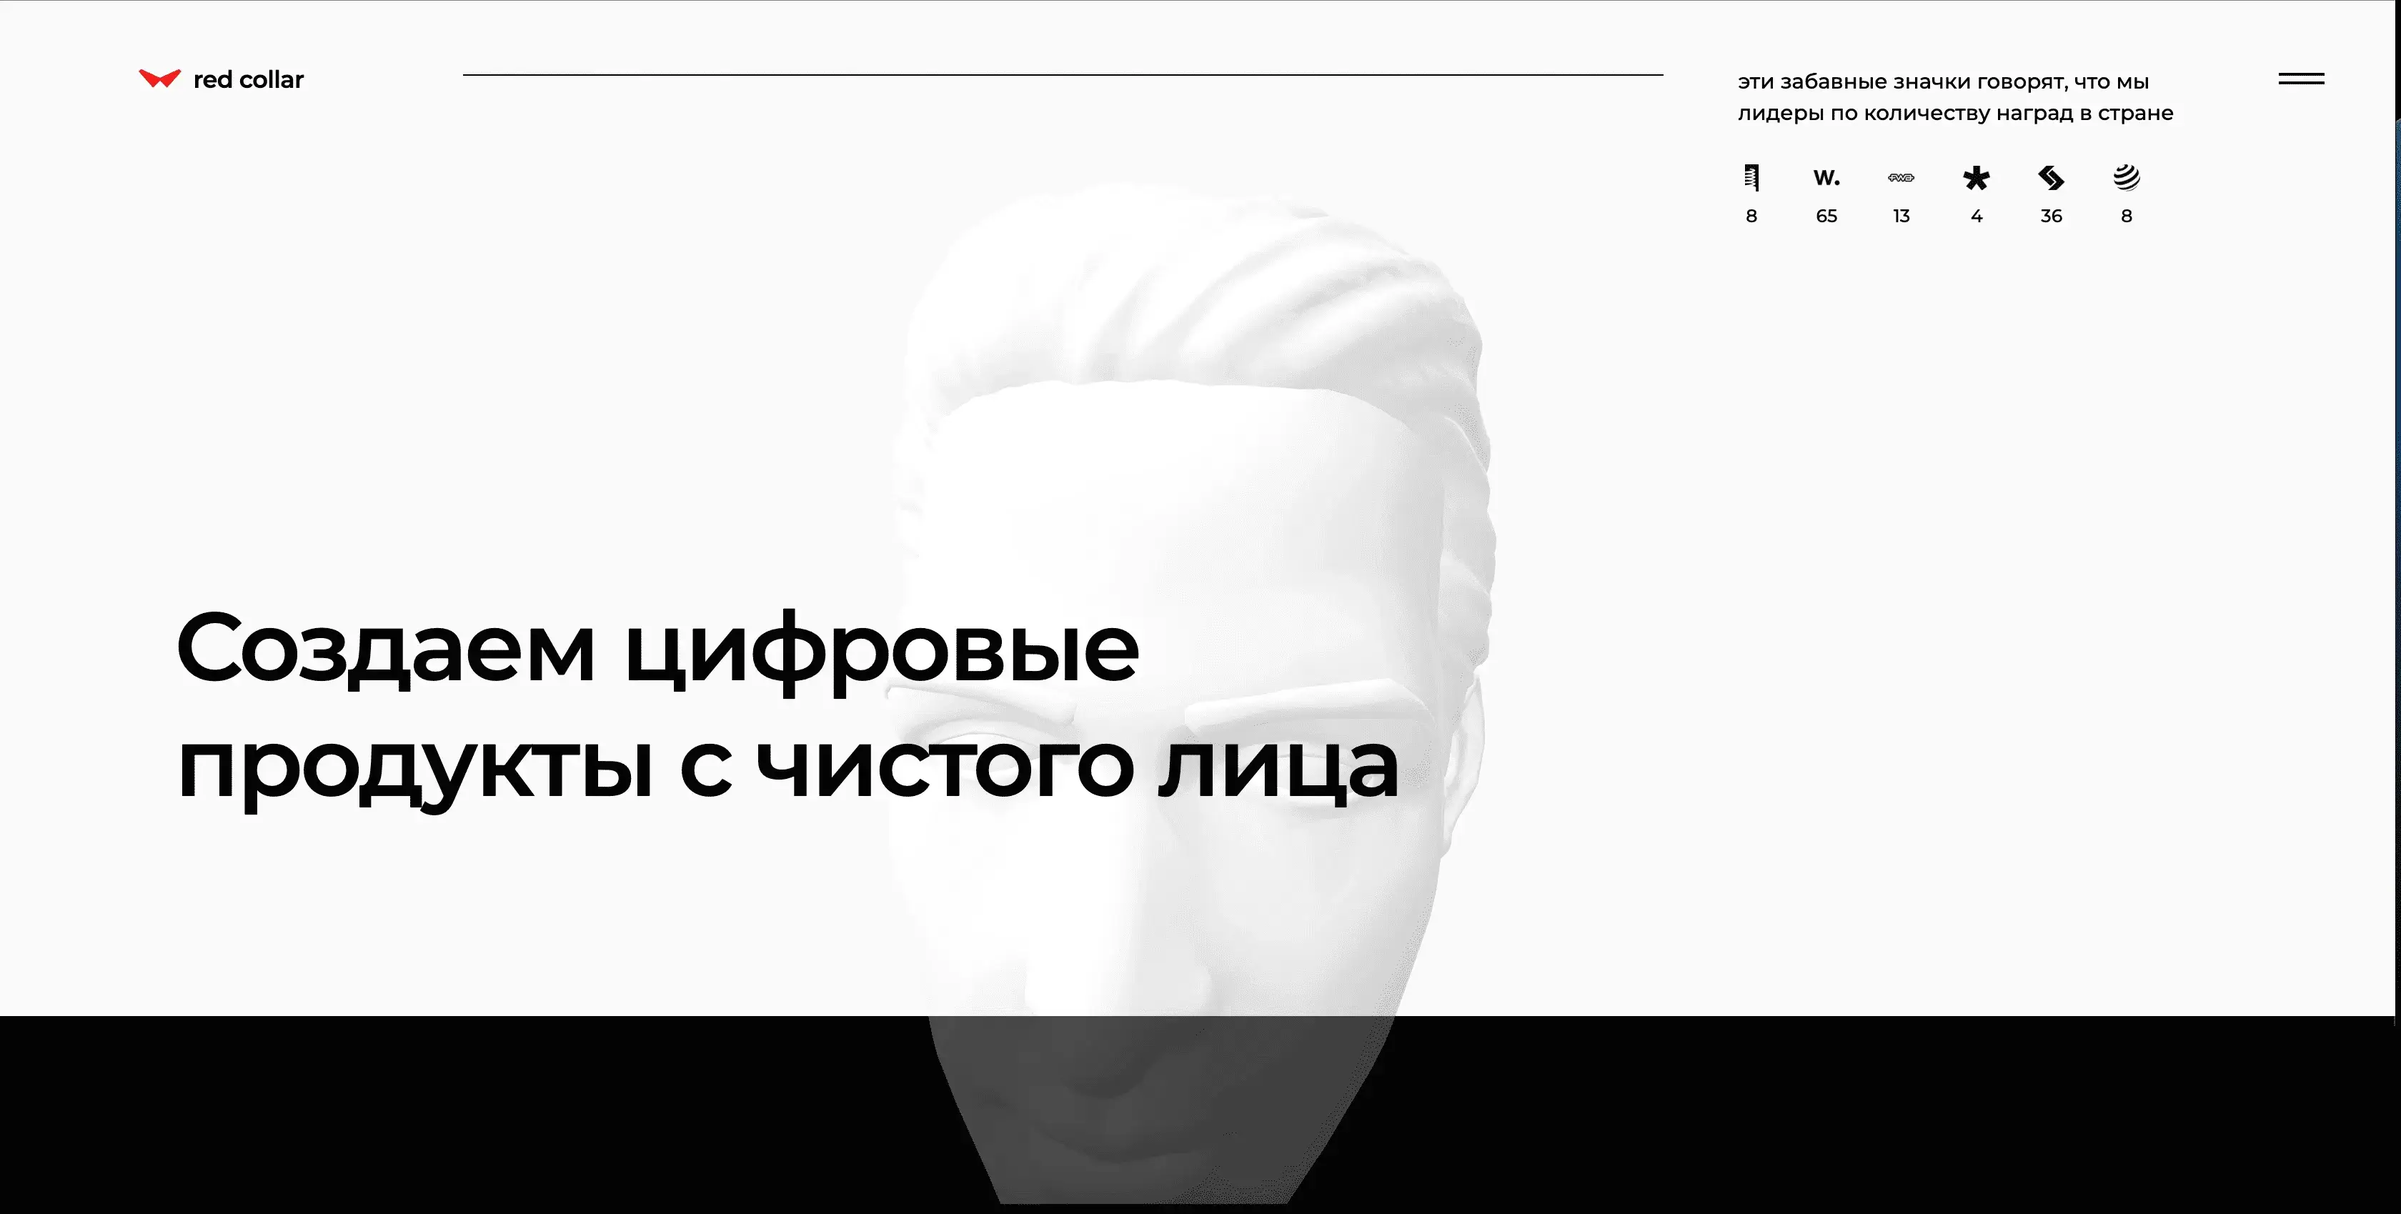
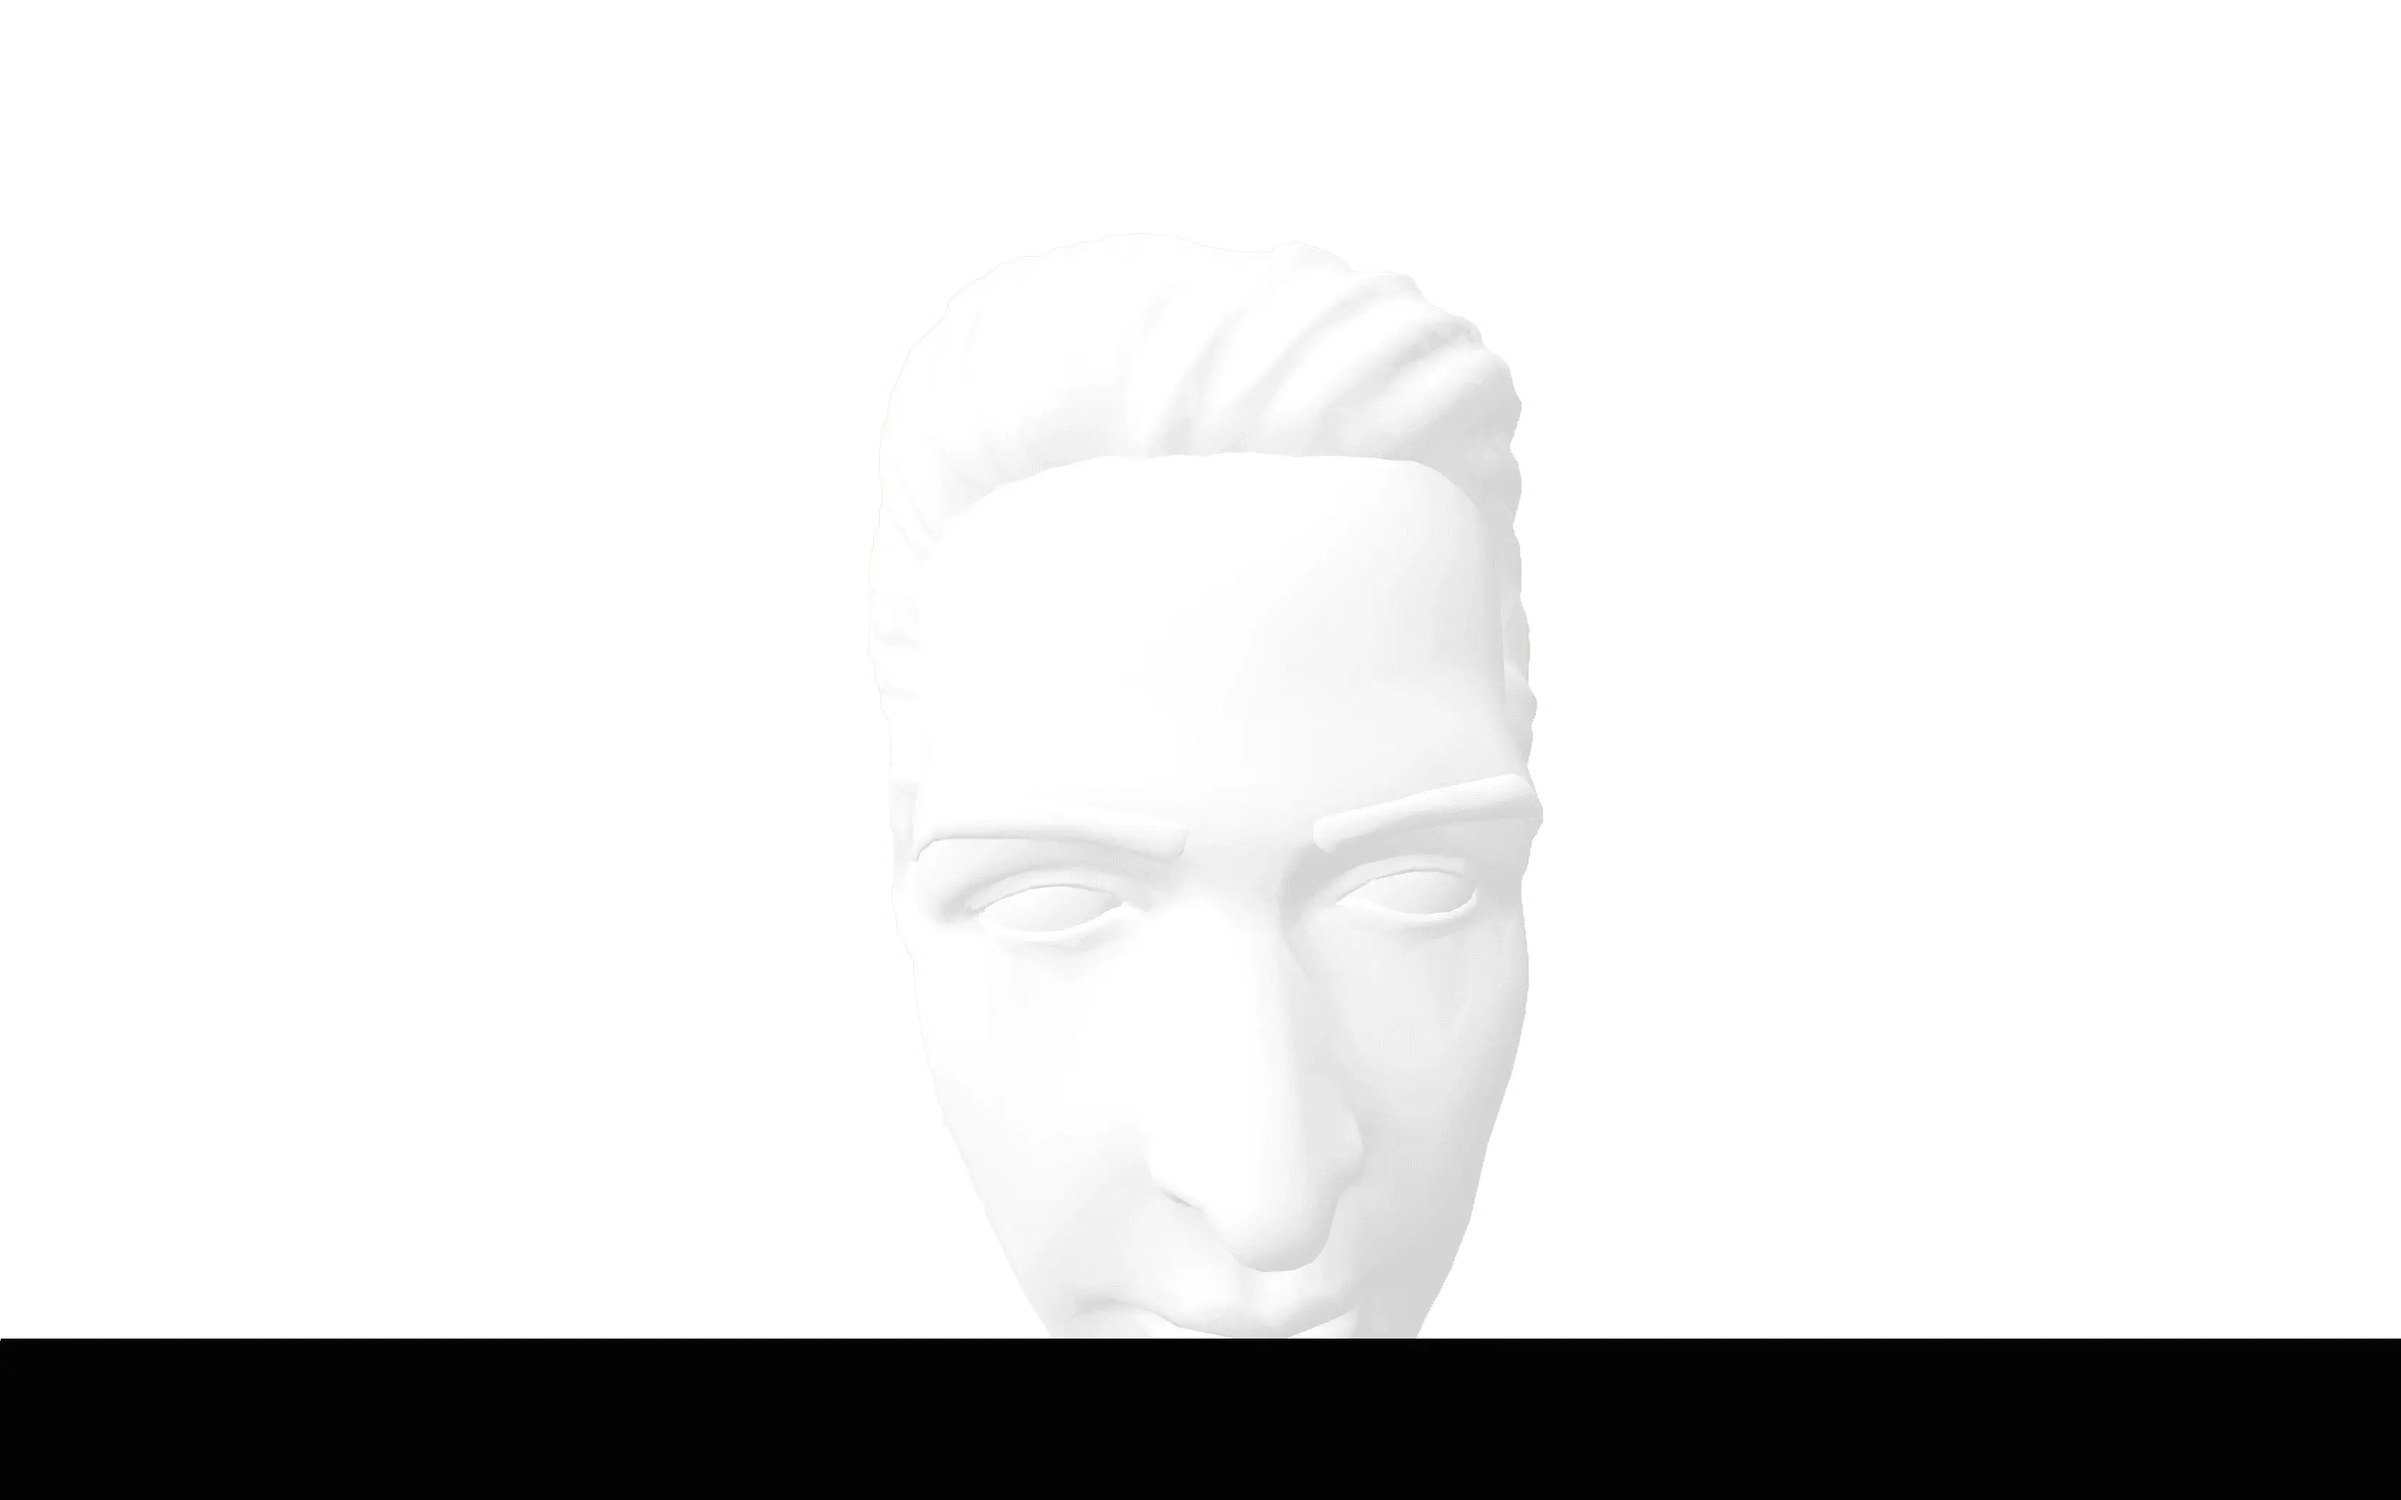
fixed: placeholder masthead

diff --git a/components/main/masthead/white-bg/index.tsx b/components/main/masthead/white-bg/index.tsx
@@ -2,13 +2,7 @@ import React, { Suspense } from 'react';
 import styles from './styles.module.scss';
 import { Canvas, useLoader } from '@react-three/fiber';
 import { Environment, Bounds, Float } from '@react-three/drei';
-// import FaceModel from '@/models/masthead/faceModel';
-import dynamic from 'next/dynamic';
-// import * as THREE from 'three';
-
-const FaceModel = dynamic(() => import('@/models/masthead/faceModel'), {
-	ssr: false,
-});
+import FaceModel from '@/models/masthead/faceModel';
 
 const WhiteBg: React.FC = () => {
 	return (

diff --git a/components/main/masthead/index.tsx b/components/main/masthead/index.tsx
@@ -1,9 +1,15 @@
 'use client';
 import React from 'react';
 import styles from './styles.module.scss';
-import WhiteBg from './white-bg';
+// import WhiteBg from './white-bg';
 import BlackBg from './black-bg';
 import Title from './title';
+import dynamic from 'next/dynamic';
+
+const WhiteBg = dynamic(() => import('./white-bg'), {
+	ssr: false,
+	loading: () => <img className='placeholder-img' src='/main/masthead/placeholder.webp'></img>,
+});
 
 const Masthead: React.FC = () => {
 	return (

diff --git a/app/page.tsx b/app/page.tsx
@@ -15,7 +15,7 @@ import Ratings from '@/components/main/ratings';
 const Home: React.FC = () => {
 	// const Masthead = dynamic(() => import('@/components/main/masthead'), {
 	// 	ssr: false,
-	// 	// loading: () => <img className='placeholder-masthead' src='/main/masthead/placeholder.webp'></img>,
+	// 	loading: () => <img className='placeholder-masthead' src='/main/masthead/placeholder2.png'></img>,
 	// });
 
 	return (

diff --git a/styles/_globals.scss b/styles/_globals.scss
@@ -1,15 +1,6 @@
 @import 'variables';
 
-// body, html {
-//     background-color: $color-black;
-// }
-
-.placeholder-masthead {
-	width: 100%;
-	// aspect-ratio: 16 / 9;
-	object-fit: cover;
-	// max-width: 100vw; 
-	max-height: 100vh;
-	display: block;
-	margin: auto;
+.placeholder-img {
+	height: 100%;
+	transform: translateY(-11.884vw); //-200px, 1680
 }
